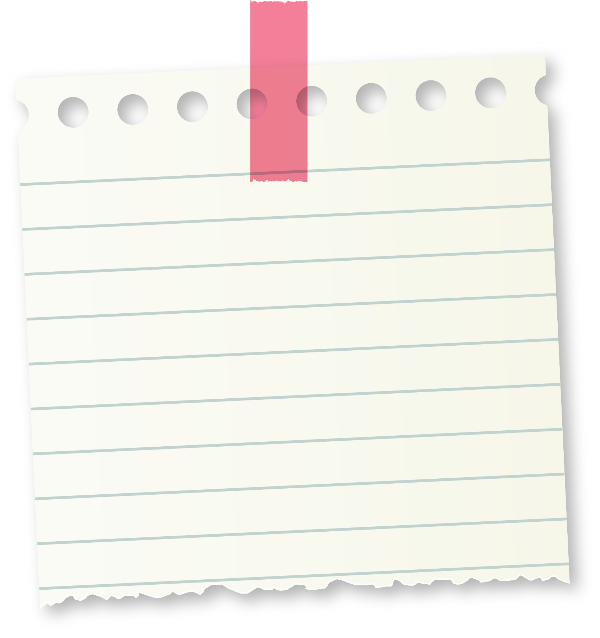
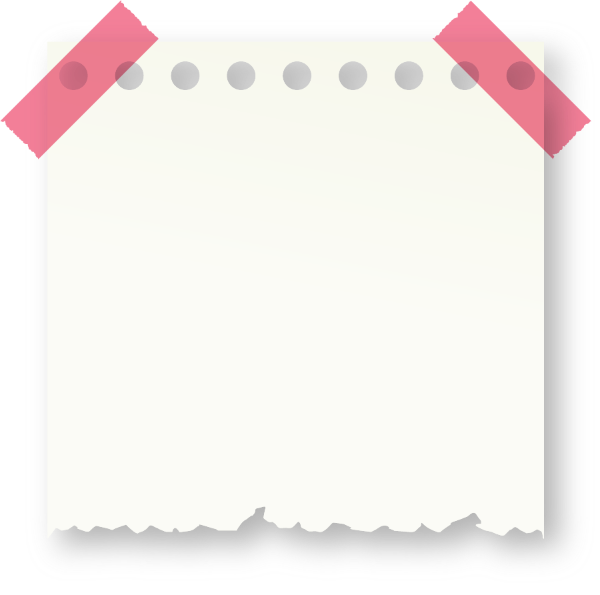
do veb version

diff --git a/index.html b/index.html
@@ -1,39 +1,53 @@
 <!DOCTYPE html>
 <html lang="en">
-<head>
-    <meta charset="UTF-8">
-    <meta name="viewport" content="width=device-width, initial-scale=1.0">
-    <meta http-equiv="X-UA-Compatible" content="ie=edge">
-    <title>Idioms</title>
-    <link rel="apple-touch-icon" sizes="180x180" href="img/favicon/apple-touch-icon.png">
-    <link rel="icon" type="image/png" sizes="32x32" href="img/favicon/favicon-32x32.png">
-    <link rel="icon" type="image/png" sizes="16x16" href="img/favicon/favicon-16x16.png">
-    <link rel="manifest" href="img/favicon/site.webmanifest">
-    <link rel="mask-icon" href="img/favicon/safari-pinned-tab.svg" color="#5bbad5">
-    <meta name="msapplication-TileColor" content="#da532c">
-    <meta name="theme-color" content="#ffffff">
-    <link rel="stylesheet" href="https://use.fontawesome.com/releases/v5.4.1/css/all.css" 
-        integrity="sha384-5sAR7xN1Nv6T6+dT2mhtzEpVJvfS3NScPQTrOxhwjIuvcA67KV2R5Jz6kr4abQsz" crossorigin="anonymous">
-    <link rel="stylesheet" href="css/index.css">
-</head>
-<body>
-    <img src="img/logo.png" alt="logo">
-    <img src="img/sheet.png" alt="sheet">
-    <form action="" class="simple_form">
-        <p>Anyone who reads Old and Middle English literary texts will be familiar with the mid-brown volumes of the EETS, with the symbol of Alfred's jewel embossed on the front cover. Most of the works attributed to King Alfred or to Aelfric, along with some of those by bishop Wulfstan and much anonymous prose and verse from the pre-Conquest period, are to be found within the Society's three series; all of the surviving medieval drama, most of the Middle English romances, much religious and secular prose and verse including the English works of John Gower, Thomas Hoccleve and most of Caxton's prints all find their place in the publications. Without EETS editions, study of medieval English texts would hardly be possible.</p>
-        
-        <a href="">Facebook</a>
-        <p>- or -</p>
-        <i class="fas fa-envelope"></i>
-        <input type="text" name="email" placeholder="email">
-        <i class="fas fa-lock"></i>
-        <input type="password" name="password" placeholder="password">
-        <input type="checkbox">remember password
-        <button>LOG IN</button>
-    </form>
-
-    
-
-</body>
-
+    <head>
+        <meta charset="UTF-8">
+        <meta name="viewport" content="width=device-width, initial-scale=1.0">
+        <meta http-equiv="X-UA-Compatible" content="ie=edge">
+        <title>Idioms</title>
+        <link rel="apple-touch-icon" sizes="180x180" href="img/favicon/apple-touch-icon.png">
+        <link rel="icon" type="image/png" sizes="32x32" href="img/favicon/favicon-32x32.png">
+        <link rel="icon" type="image/png" sizes="16x16" href="img/favicon/favicon-16x16.png">
+        <link rel="manifest" href="img/favicon/site.webmanifest">
+        <link rel="mask-icon" href="img/favicon/safari-pinned-tab.svg" color="#5bbad5">
+        <meta name="msapplication-TileColor" content="#da532c">
+        <meta name="theme-color" content="#ffffff">
+        <link rel="stylesheet" href="https://use.fontawesome.com/releases/v5.4.1/css/all.css" 
+            integrity="sha384-5sAR7xN1Nv6T6+dT2mhtzEpVJvfS3NScPQTrOxhwjIuvcA67KV2R5Jz6kr4abQsz" crossorigin="anonymous">
+        <link rel="stylesheet" href="css/index.css">
+    </head>
+    <body>
+        <div class="container">
+            <img class="logo_size" src="img/logo.png" alt="logo">
+            <button class="botton">Let's  try</button>
+            <img class="sheet" src="img/sheet_one_stiker.png" alt="sheet">
+            <form class="form" action="">
+                    <button class="facebook">Facebook</button>
+                    <p class="text_or">- or -</p>
+                    <div>
+                        <i class="fas fa-envelope"></i>
+                        <input class="input" type="text" name="email" placeholder="email">
+                    </div>
+                    <div>
+                        <i class="fas fa-lock"></i>
+                        <input class="input" type="password" name="password" placeholder="password">
+                    </div>
+                    <div>
+                        <label>
+                            <input class="checkbox" type="checkbox">Check me out
+                        </label>
+                    </div>
+                    <button class="button_log_in">Log in</button>
+                    <a class="links" href="">Forgot Password?</a>
+                    <a class="links" href="">Sign Up</a>
+                </form>
+        </div>
+        <p class="text">
+            English idioms, proverbs, and expressions are an important part of everyday English. 
+            They come up all the time in both written and spoken English. Because idioms don't always 
+            make sense literally, you'll need to amiliarize yourself with the meaning and usage of each idiom.
+            That may seem like a lot of work, but learning idioms is fun, especially when you compare 
+            English idioms to the idioms in your own language.
+        </p>
+    </body>
 </html>

diff --git a/css/index.css b/css/index.css
@@ -6,8 +6,127 @@
 
 body {
     background-color: #DCDCDC;
+    max-width: 2300px;
+    margin: auto; 
 }
 
-.simple_form {
-    transform: rotate(-3deg);
+.container {
+    margin: 50px;
 }
+
+.logo_size {
+    width: 100%;
+    height: auto;
+    min-width: 220px;
+}
+
+.botton {
+    width: 100%;
+    min-width: 220px;
+    height: 50px;
+    margin-top: 30px;
+    margin-bottom: 30px;
+    border-radius: 20px;
+    background-color: white;
+    box-shadow: 4px 4px 15px 0px #0000006b;
+    border-width: inherit;
+    font-family: Dancing Script;
+    font-size: 30px;
+    font-weight: bold;
+    color: #000000c9;
+    cursor: pointer;
+}
+
+.sheet {
+    
+    width: 100%;
+    height: auto;
+    min-width: 220px;
+
+}
+.form {
+    display: flex;
+    flex-direction: column;
+    margin-left: 30px;
+    margin-right: 30px;
+}
+
+.facebook {
+    border-width: inherit;
+    font-size: 30px;
+    font-weight: bold;
+    color: #1d00ffc9;
+    cursor: pointer;
+    padding: inherit;
+    width: 180px;
+    margin-left: auto;
+    margin-right: auto
+}
+
+.text_or{
+    text-align: center;
+    margin: 0px;
+    font-size: 40px;
+    margin-bottom: 15px;
+}
+
+body i {
+    position: absolute;
+    color: #928888;
+    font-size: 130%;
+    padding-left: 10px;
+    padding-top: 7px;
+}
+
+.input {
+    margin-bottom: 10px;
+    width: 100%;
+    padding-left: 40px;
+    padding-bottom: 6px;
+    background-color: #FBFBF6;
+    box-sizing: border-box;
+    font-family: Dancing Script;
+    font-size: 20px;
+    font-weight: bold;
+    color: #000000c9;
+    align-items: center;
+}
+
+.checkbox {
+    margin-top: 0px;
+    margin-right: 10px;
+    margin-left: 0px;
+    margin-bottom: 15px;
+    cursor: pointer;
+}
+
+label {
+    cursor: pointer;
+}
+
+.button_log_in {
+    height: 35px;
+    background-color: white;
+    font-family: Dancing Script;
+    font-weight: bold;
+    font-size: 20px;
+    cursor: pointer;
+}
+
+.links {
+    text-decoration: none;
+    font-size: 20px;
+    color: black;
+    font-weight: bold;
+    margin-top: 10px;
+    margin: auto;
+    padding-top: 10px;
+}
+
+.text {
+    margin: 50px;
+    font-size: 30px;
+    text-align: justify;
+    min-width: 220px;
+}
+
